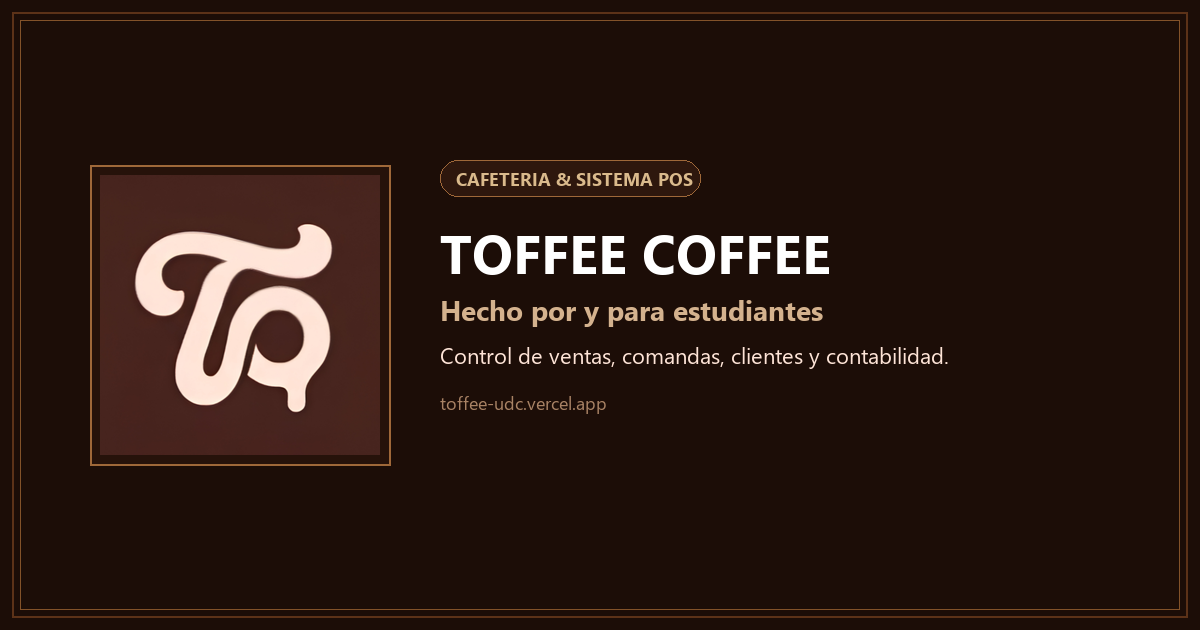
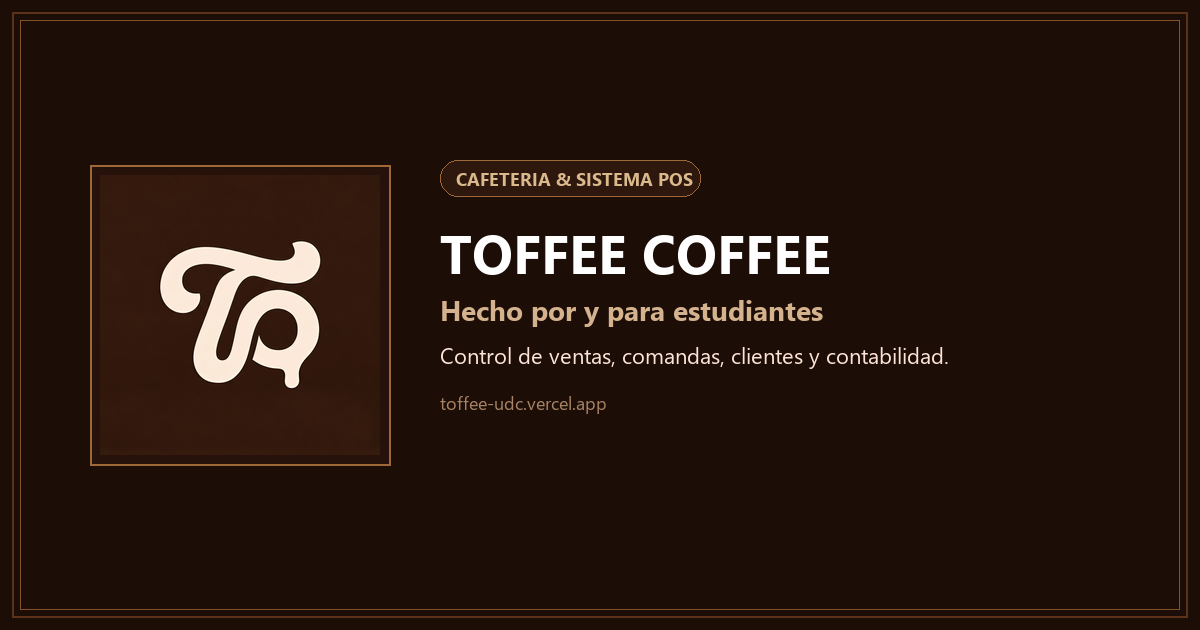
feat(branding, sales): update high-res brand assets and add purchase items breakdown to ticket modal

Changed region(s): [[0.0925, 0.3317, 0.3392, 0.6635]]

diff --git a/Cafeteriaweb/src/pages/Sales.jsx b/Cafeteriaweb/src/pages/Sales.jsx
@@ -1132,6 +1132,63 @@ export default function Sales() {
               </div>
             </div>
 
+            <div className="p-4 bg-[#FEE4D7]/40 dark:bg-[#2A150C] border border-[#D4B28E]/60 dark:border-[#9F6839]/40 rounded-2xl text-xs space-y-2 text-[#432414] dark:text-[#FEE4D7]">
+              <div className="flex justify-between">
+                <span className="text-[#9F6839] dark:text-[#DABA8C] font-bold">Cliente:</span>
+                <span className="font-extrabold">{lastOrder.customer_name || 'Cliente General'}</span>
+              </div>
+              <div className="flex justify-between">
+                <span className="text-[#9F6839] dark:text-[#DABA8C] font-bold">Método de Pago:</span>
+                <span className="font-bold uppercase">{lastOrder.payment_method}</span>
+              </div>
+              {lastOrder.bank_details && (
+                <div className="flex justify-between">
+                  <span className="text-[#9F6839] dark:text-[#DABA8C] font-bold">Bancos:</span>
+                  <span className="font-bold">{lastOrder.bank_details}</span>
+                </div>
+              )}
+
+              {/* Detalle de Productos / Descripcion de la compra */}
+              <div className="pt-2 pb-1 border-t border-[#D4B28E]/60 dark:border-[#9F6839]/30">
+                <div className="text-[11px] font-bold text-[#9F6839] dark:text-[#DABA8C] mb-2 uppercase tracking-wider">
+                  Productos comprados:
+                </div>
+                <div className="space-y-1.5 max-h-40 overflow-y-auto pr-1 divide-y divide-[#D4B28E]/30 dark:divide-[#9F6839]/20">
+                  {lastOrder.items && lastOrder.items.length > 0 ? (
+                    lastOrder.items.map((it, idx) => (
+                      <div key={idx} className="flex justify-between items-center pt-1.5 first:pt-0 text-xs">
+                        <div className="flex items-center gap-2">
+                          <span className="inline-flex items-center justify-center px-1.5 py-0.5 rounded bg-[#FEE4D7] dark:bg-[#3E2114] text-[#9F6839] dark:text-[#DABA8C] font-black text-[11px]">
+                            {it.quantity}x
+                          </span>
+                          <span className="font-semibold text-[#432414] dark:text-[#FEE4D7]">
+                            {it.product_name || 'Producto'}
+                          </span>
+                        </div>
+                        <span className="font-bold text-right text-[#432414] dark:text-[#FEE4D7]">
+                          ${Number((it.unit_price || 0) * it.quantity).toLocaleString('es-CO')}
+                        </span>
+                      </div>
+                    ))
+                  ) : null}
+                </div>
+              </div>
+
+              {(Number(lastOrder.discount_amount) > 0 || Number(lastOrder.discount_percent) > 0) && (
+                <div className="flex justify-between text-xs text-red-600 dark:text-red-400 font-bold pt-1">
+                  <span>
+                    Descuento {Number(lastOrder.discount_percent) > 0 ? `(${lastOrder.discount_percent}%)` : ''}:
+                  </span>
+                  <span>-${Number(lastOrder.discount_amount || 0).toLocaleString('es-CO')}</span>
+                </div>
+              )}
+
+              <div className="pt-2 border-t border-[#D4B28E]/60 dark:border-[#9F6839]/30 flex justify-between text-sm font-black text-[#432414] dark:text-[#FEE4D7]">
+                <span>Total:</span>
+                <span className="text-[#9F6839] dark:text-[#DABA8C]">${Number(lastOrder.total).toLocaleString('es-CO')}</span>
+              </div>
+            </div>
+
             <div className="grid grid-cols-1 sm:grid-cols-3 gap-2.5">
               <button
                 type="button"

diff --git a/Cafeteriaweb/src/pages/SalesHistory.jsx b/Cafeteriaweb/src/pages/SalesHistory.jsx
@@ -548,6 +548,46 @@ export default function SalesHistory() {
                   <span className="font-bold">{selectedSale.bank_details}</span>
                 </div>
               )}
+
+              {/* Detalle de Productos / Descripcion de la compra */}
+              <div className="pt-2.5 pb-1 border-t border-[#D4B28E]/60 dark:border-[#9F6839]/30">
+                <div className="text-[11px] font-bold text-[#9F6839] dark:text-[#DABA8C] mb-2 uppercase tracking-wider">
+                  Productos comprados:
+                </div>
+                <div className="space-y-1.5 max-h-48 overflow-y-auto pr-1 divide-y divide-[#D4B28E]/30 dark:divide-[#9F6839]/20">
+                  {selectedSale.items && selectedSale.items.length > 0 ? (
+                    selectedSale.items.map((it, idx) => (
+                      <div key={idx} className="flex justify-between items-center pt-1.5 first:pt-0 text-xs">
+                        <div className="flex items-center gap-2">
+                          <span className="inline-flex items-center justify-center px-1.5 py-0.5 rounded bg-[#FEE4D7] dark:bg-[#3E2114] text-[#9F6839] dark:text-[#DABA8C] font-black text-[11px]">
+                            {it.quantity}x
+                          </span>
+                          <span className="font-semibold text-[#432414] dark:text-[#FEE4D7]">
+                            {it.product_name || 'Producto'}
+                          </span>
+                        </div>
+                        <span className="font-bold text-right text-[#432414] dark:text-[#FEE4D7]">
+                          ${Number((it.unit_price || 0) * it.quantity).toLocaleString('es-CO')}
+                        </span>
+                      </div>
+                    ))
+                  ) : (
+                    <div className="text-xs italic text-[#9F6839] dark:text-[#DABA8C] py-1">
+                      Sin detalle de productos registrado
+                    </div>
+                  )}
+                </div>
+              </div>
+
+              {(Number(selectedSale.discount_amount) > 0 || Number(selectedSale.discount_percent) > 0) && (
+                <div className="flex justify-between text-xs text-red-600 dark:text-red-400 font-bold pt-1">
+                  <span>
+                    Descuento {Number(selectedSale.discount_percent) > 0 ? `(${selectedSale.discount_percent}%)` : ''}:
+                  </span>
+                  <span>-${Number(selectedSale.discount_amount || 0).toLocaleString('es-CO')}</span>
+                </div>
+              )}
+
               <div className="pt-2 border-t border-[#D4B28E]/60 dark:border-[#9F6839]/30 flex justify-between text-sm font-black text-[#432414] dark:text-[#FEE4D7]">
                 <span>Total:</span>
                 <span className="text-[#9F6839] dark:text-[#DABA8C]">${Number(selectedSale.total).toLocaleString('es-CO')}</span>
